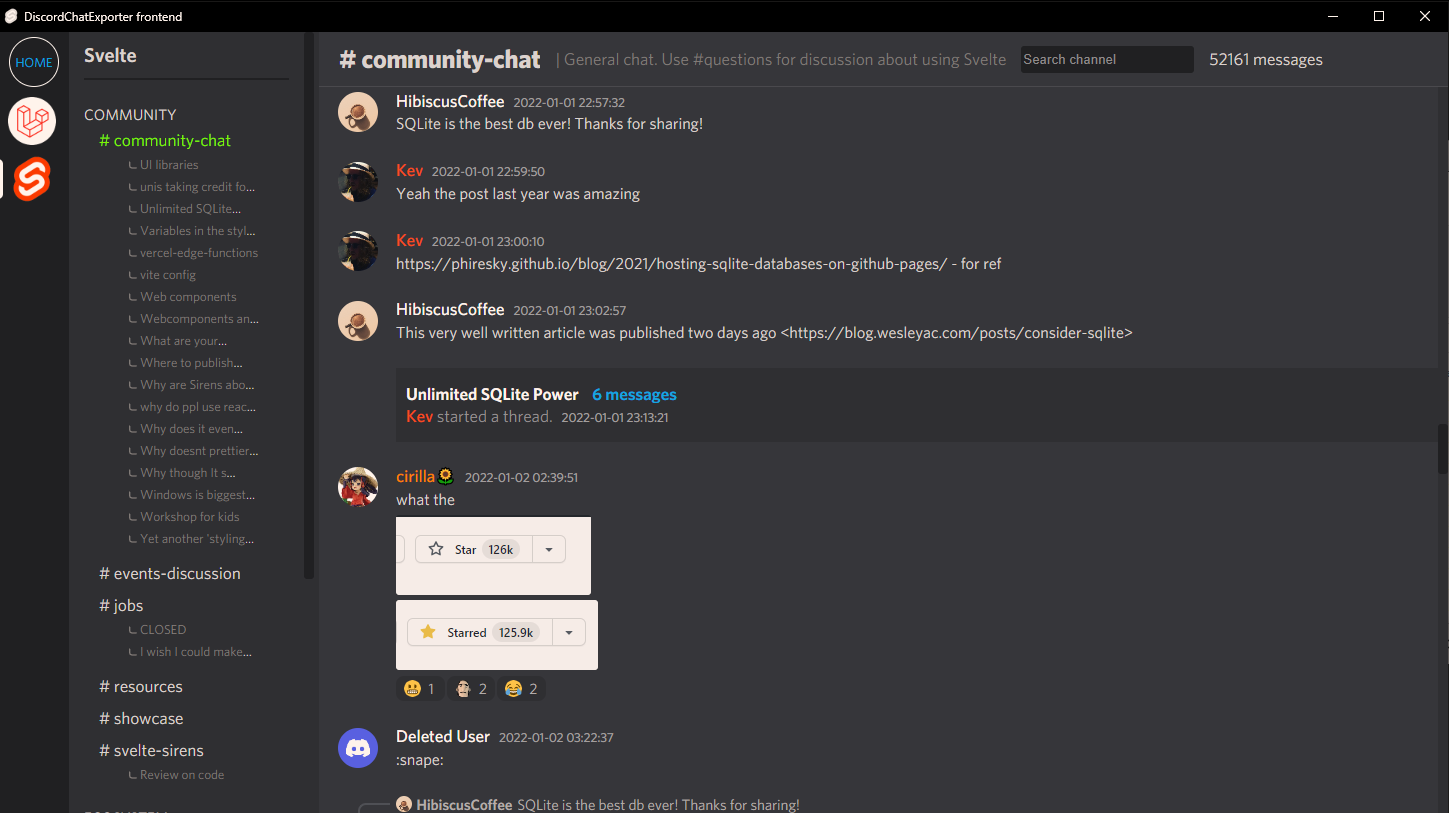
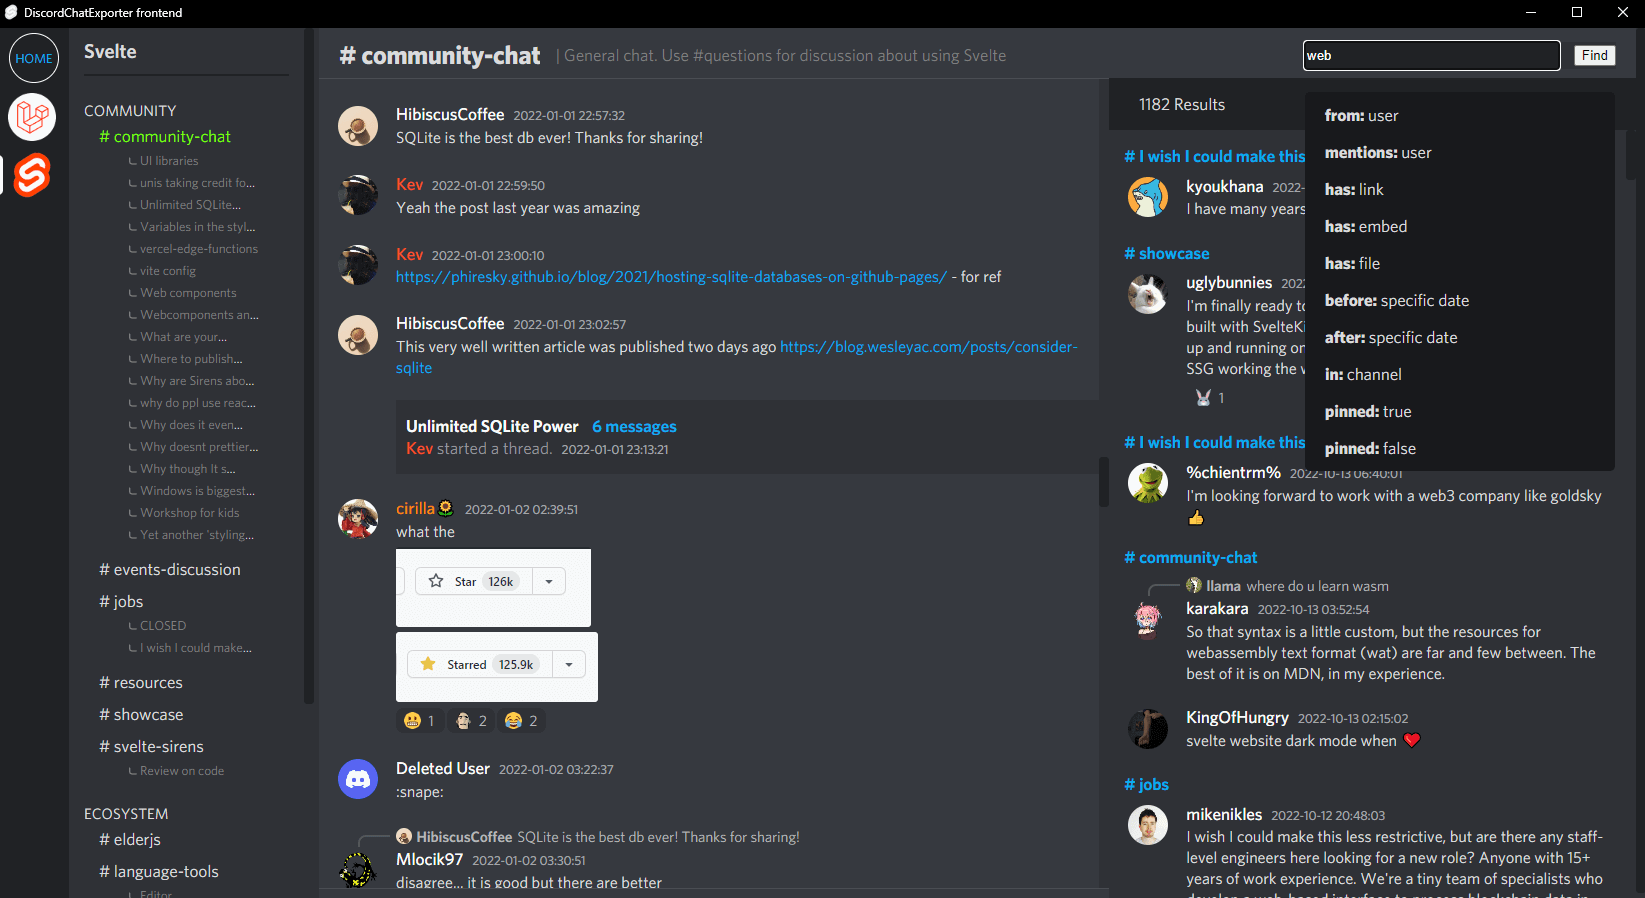
new screenshot

diff --git a/README.md b/README.md
@@ -9,7 +9,7 @@ View your JSON [DiscordChatExporter](Tyrrrz/DiscordChatExporter) exports as if y
 - Message deduplication - merge multiple JSON exports and view them as if they were one
 - Advanced message lazy loading and grouping (infinite scroll without pagination) - even channels with 100k+ messages are loaded almost instantly
 - Threads support (go to thread, go back to channel where thread was created)
-- Guild search
+- Guild search with autocomplete
 - View media files locally
 - Browse guild or direct messages
 - Discord Markdown rendering support
